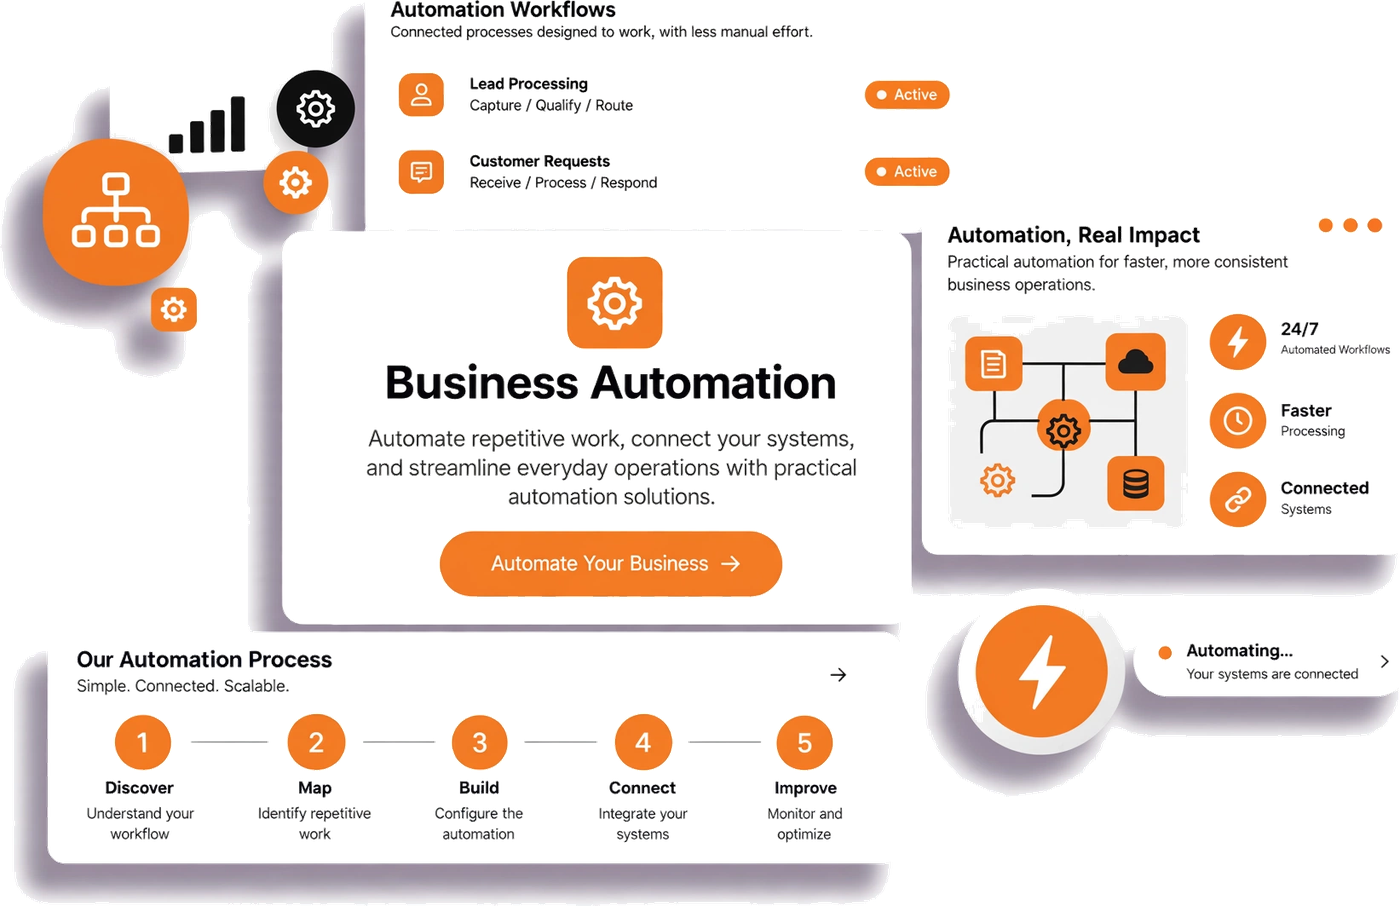
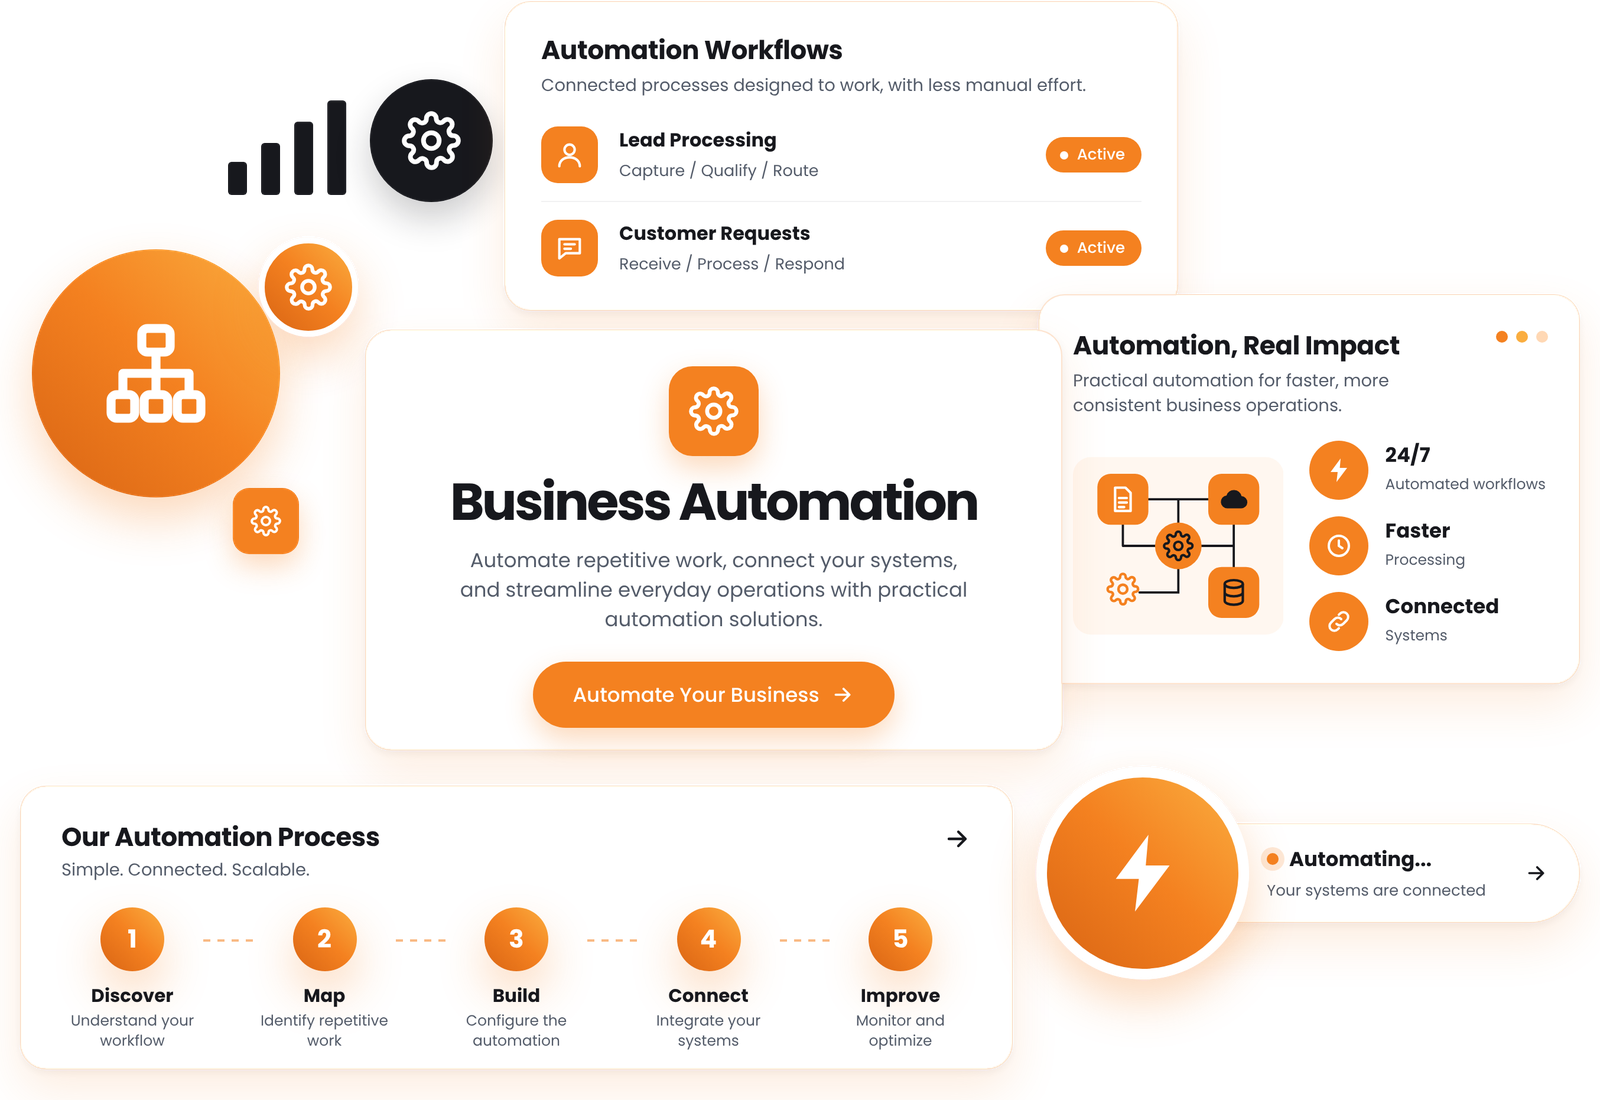
Automation cover: rebuilt in the site's own style
Same content and layout, redrawn from scratch: Poppins type, the site's
orange/dark palette, glass-card borders and orange-tinted shadows, crisp
at 2x, real transparency.

Claude-Session: https://claude.ai/code/session_01JNPMat3bGb2KJUxQZ7Kp4F

diff --git a/components/About/Slides/AutomationSlide/AutomationSlide.tsx b/components/About/Slides/AutomationSlide/AutomationSlide.tsx
@@ -19,8 +19,8 @@ const AutomationSlide = (): JSX.Element => (
     cover={{
       src: '/assets/portfolio/automation-cover.png',
       alt: 'Business automation: workflows, real impact and a five-step automation process',
-      width: 1400,
-      height: 906,
+      width: 1600,
+      height: 1100,
     }}
   />
 );
